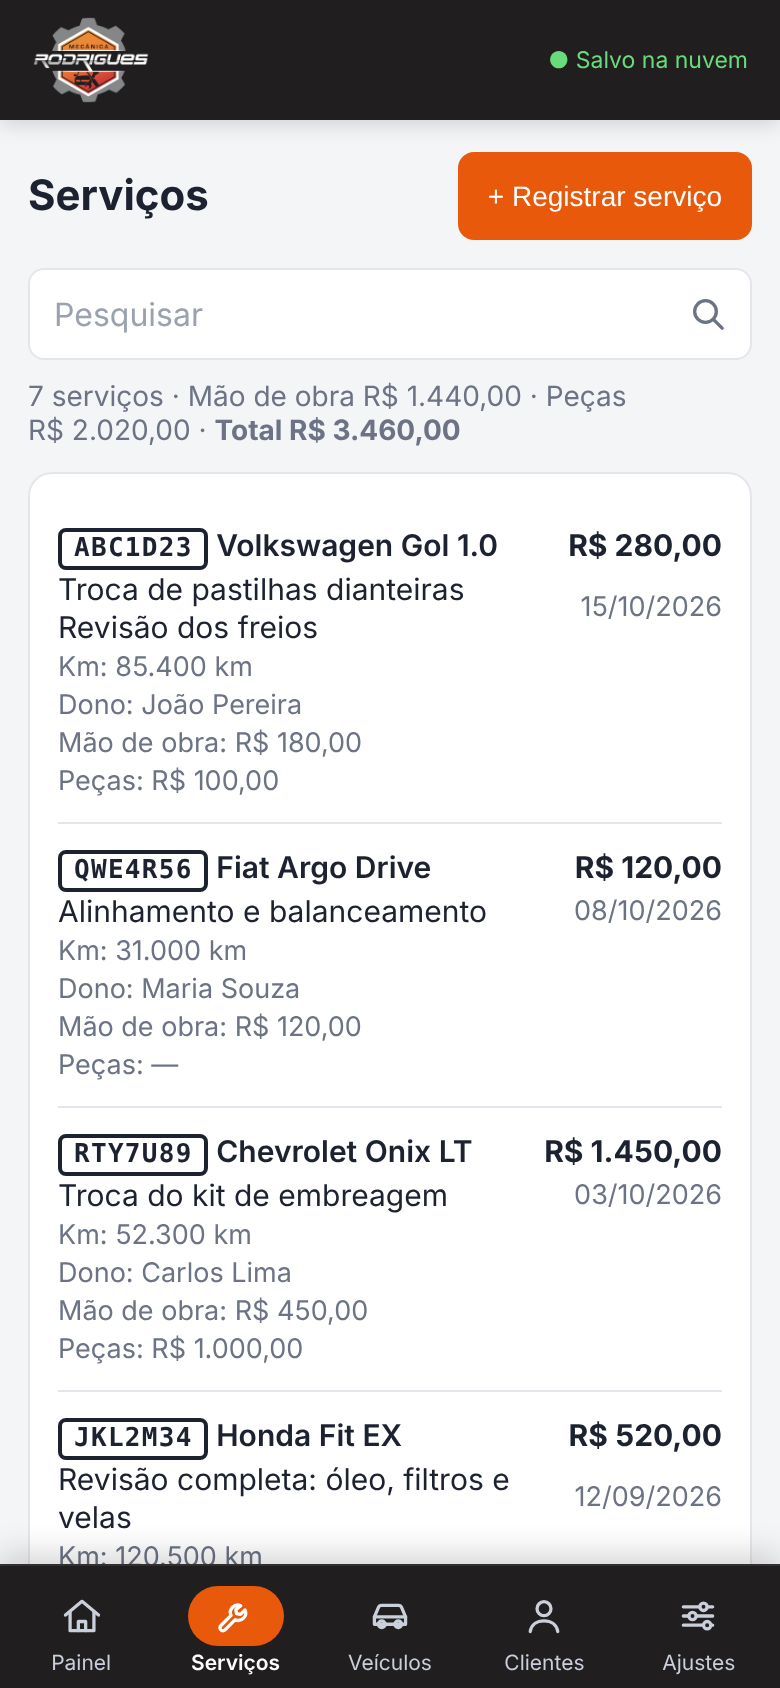
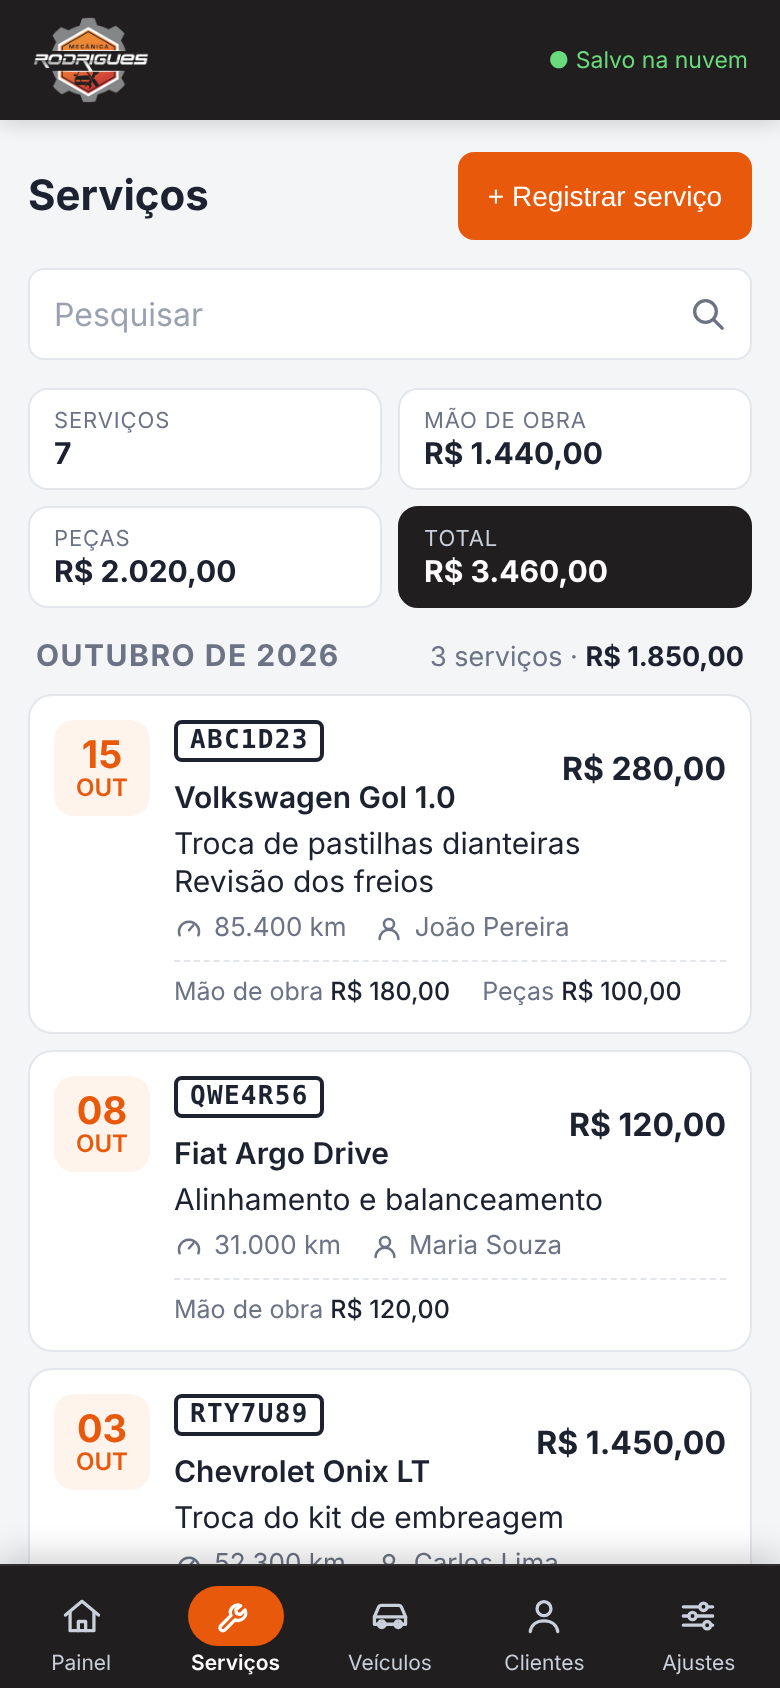
Lista de serviços em cartões agrupados por mês (1.12.0)
Quadros de resumo no topo; cada cartão com data em destaque, placa e
veículo, descrição, km e dono, total e divisão mão de obra/peças.
A ficha do cliente usa a mesma lista.

Claude-Session: https://claude.ai/code/session_01Nm6nWQGTdthzbNY6jBommo

diff --git a/app.js b/app.js
@@ -19,7 +19,7 @@ const DB_KEY = "oficina_db_v1";
 //   (uma versão antiga estragaria ou apagaria dados novos), iguale-a ao
 //   VERSION_CODE; as versões mais antigas ficam impedidas de gravar até atualizar.
 const VERSION_MAJOR = 1;
-const VERSION_CODE = 11;
+const VERSION_CODE = 12;
 const VERSION_PATCH = 0;
 const VERSION_NAME = `${VERSION_MAJOR}.${VERSION_CODE}.${VERSION_PATCH}`;
 const COMPAT_MINIMA = 6;
@@ -679,31 +679,73 @@ function removeItem(kind, id) {
 }
 
 // ---------- telas ----------
-// Lista de serviços (no celular cada linha vira um cartão)
-function servicoTabela(list, { veiculo = true, dono = true, vazio = "Nenhum serviço registrado" } = {}) {
-  const head = `<tr><th>Data</th>${veiculo ? "<th>Veículo</th>" : ""}<th>Serviço</th><th>Km</th>${
-    dono ? "<th>Dono na época</th>" : ""
-  }<th class="num">Mão de obra</th><th class="num">Peças</th><th class="num">Total</th></tr>`;
-  const cols = 6 + (veiculo ? 1 : 0) + (dono ? 1 : 0);
-  const rows = list.length
-    ? ordenarServicos(list)
-        .map((s) => {
-          const v = getVeiculo(s.veiculoId),
-            c = getCliente(s.clienteId);
-          return `<tr class="click" data-servico="${esc(s.id)}">
-        <td class="c2 sub">${fmtDate(s.data)}</td>
-        ${veiculo ? `<td class="c1 strong">${plate(v?.placa)} ${esc(v ? nomeVeiculo(v) : "Veículo removido")}</td>` : ""}
-        <td class="c1 desc"><span class="clamp">${esc(s.descricao)}</span></td>
-        <td class="c1 sub nowrap" data-l="Km">${kmFmt(s.km)}</td>
-        ${dono ? `<td class="c1 sub" data-l="Dono">${esc(c?.nome || "—")}</td>` : ""}
-        <td class="num c1 sub nowrap ${temDivisao(s) ? "" : "hide-sm"}" data-l="Mão de obra">${valorOuTraco(s.maoDeObra)}</td>
-        <td class="num c1 sub nowrap ${temDivisao(s) ? "" : "hide-sm"}" data-l="Peças">${valorOuTraco(s.pecas)}</td>
-        <td class="num c2 o-1 nowrap"><b>${valorOuTraco(s.valor)}</b></td></tr>`;
-        })
-        .join("")
-    : `<tr><td colspan="${cols}" class="empty">${vazio}</td></tr>`;
-  return `<div class="table-wrap"><table class="list"><thead>${head}</thead><tbody>${rows}</tbody></table></div>`;
+// Lista de serviços: cartões agrupados por mês
+const MESES = ["Janeiro", "Fevereiro", "Março", "Abril", "Maio", "Junho", "Julho", "Agosto", "Setembro", "Outubro", "Novembro", "Dezembro"];
+const MESES_CURTOS = ["jan", "fev", "mar", "abr", "mai", "jun", "jul", "ago", "set", "out", "nov", "dez"];
+const ICO_KM = `<svg viewBox="0 0 24 24" aria-hidden="true"><path d="M4.5 17a8 8 0 1 1 15 0"/><path d="m12 13 3.5-4"/></svg>`;
+const ICO_DONO = `<svg viewBox="0 0 24 24" aria-hidden="true"><circle cx="12" cy="8" r="4"/><path d="M4.5 20a7.5 7.5 0 0 1 15 0"/></svg>`;
+
+function mesDoServico(s) {
+  const m = /^(\d{4})-(\d{2})/.exec(s.data || "");
+  return m ? { chave: m[1] + "-" + m[2], nome: `${MESES[+m[2] - 1]} de ${m[1]}` } : { chave: "", nome: "Sem data" };
 }
+
+function servicoCartao(s, { dono = true } = {}) {
+  const v = getVeiculo(s.veiculoId),
+    c = getCliente(s.clienteId);
+  const [, mes, dia] = String(s.data || "").slice(0, 10).split("-");
+  const meta = [
+    temNum(s.km) ? `<span class="sv-chip">${ICO_KM}${kmFmt(s.km)}</span>` : "",
+    dono && c ? `<span class="sv-chip">${ICO_DONO}${esc(c.nome)}</span>` : "",
+  ].join("");
+  return `<article class="sv click" data-servico="${esc(s.id)}">
+    <div class="sv-data" title="${fmtDate(s.data)}">${
+      dia ? `<b>${dia}</b><span>${MESES_CURTOS[+mes - 1] || ""}</span>` : "<span>—</span>"
+    }</div>
+    <div class="sv-corpo">
+      <div class="sv-veiculo">${v ? `${plate(v.placa)} <span>${esc(nomeVeiculo(v))}</span>` : `<span class="muted">Veículo removido</span>`}</div>
+      <div class="sv-desc clamp">${esc(s.descricao)}</div>
+      ${meta ? `<div class="sv-meta">${meta}</div>` : ""}
+    </div>
+    <div class="sv-valores">
+      <b class="sv-total">${valorOuTraco(s.valor)}</b>
+      ${
+        temDivisao(s)
+          ? `<div class="sv-partes">${temNum(s.maoDeObra) ? `<span>Mão de obra <b>${brl(s.maoDeObra)}</b></span>` : ""}${
+              temNum(s.pecas) ? `<span>Peças <b>${brl(s.pecas)}</b></span>` : ""
+            }</div>`
+          : ""
+      }
+    </div>
+  </article>`;
+}
+
+function servicoLista(list, { dono = true, vazio = "Nenhum serviço registrado" } = {}) {
+  if (!list.length) return `<div class="card"><p class="empty">${vazio}</p></div>`;
+  const grupos = [];
+  for (const s of ordenarServicos(list)) {
+    const m = mesDoServico(s);
+    if (!grupos.length || grupos.at(-1).chave !== m.chave) grupos.push({ ...m, itens: [] });
+    grupos.at(-1).itens.push(s);
+  }
+  return `<div class="sv-lista">${grupos
+    .map(
+      (g) => `<section class="sv-mes">
+      <header class="sv-mes-head"><h2>${g.nome}</h2><span>${g.itens.length} ${g.itens.length === 1 ? "serviço" : "serviços"} · <b>${brl(
+        totalValor(g.itens),
+      )}</b></span></header>
+      ${g.itens.map((s) => servicoCartao(s, { dono })).join("")}
+    </section>`,
+    )
+    .join("")}</div>`;
+}
+
+const resumoServicos = (list) => `<div class="sv-resumo">
+  <div><span>Serviços</span><b>${list.length}</b></div>
+  <div><span>Mão de obra</span><b>${brl(somaCampo(list, "maoDeObra"))}</b></div>
+  <div><span>Peças</span><b>${brl(somaCampo(list, "pecas"))}</b></div>
+  <div class="destaque"><span>Total</span><b>${brl(totalValor(list))}</b></div>
+</div>`;
 
 // Painel: últimos serviços como linha do tempo, uma informação embaixo da outra
 function ultimosServicos(list) {
@@ -759,10 +801,8 @@ const views = {
     });
     return `<div class="page-head"><h1>Serviços</h1>${btnServico()}</div>
       ${campoBusca(q.q)}
-      <p class="muted resumo">${list.length} ${list.length === 1 ? "serviço" : "serviços"} · Mão de obra ${brl(
-        somaCampo(list, "maoDeObra"),
-      )} · Peças ${brl(somaCampo(list, "pecas"))} · <b>Total ${brl(totalValor(list))}</b></p>
-      <div class="card">${servicoTabela(list, { vazio: busca ? "Nenhum serviço encontrado" : "Nenhum serviço registrado" })}</div>`;
+      ${resumoServicos(list)}
+      ${servicoLista(list, { vazio: busca ? "Nenhum serviço encontrado" : "Nenhum serviço registrado" })}`;
   },
 
   veiculos(_, q) {
@@ -887,8 +927,8 @@ const views = {
             : `<tr><td colspan="4" class="empty">Nenhum veículo</td></tr>`
         }
         </tbody></table></div></div>
-      <div class="card"><h2>Serviços feitos para este cliente</h2>
-        ${servicoTabela(servs, { dono: false })}</div>`;
+      <h2 class="sv-titulo">Serviços feitos para este cliente</h2>
+      ${servicoLista(servs, { dono: false })}`;
   },
 
   config() {

diff --git a/style.css b/style.css
@@ -140,6 +140,55 @@ table.list td.desc { max-width: 420px; }
 .toast::before { content: "✓"; flex: none; display: grid; place-items: center; width: 22px; height: 22px; border-radius: 50%; background: rgba(255,255,255,.22); font-size: 13px; font-weight: 700; }
 .toast.erro { background: #c92a2a; }
 .toast.erro::before { content: "!"; }
+/* ---------- lista de serviços (cartões por mês) ---------- */
+.sv-resumo { display: grid; grid-template-columns: repeat(4, minmax(0, 1fr)); gap: 10px; margin: 0 0 18px; }
+.sv-resumo > div { background: var(--surface); border: 1px solid var(--border); border-radius: var(--radius); padding: 10px 14px; min-width: 0; }
+.sv-resumo span { display: block; font-size: 12px; color: var(--muted); text-transform: uppercase; letter-spacing: .04em; }
+.sv-resumo b { display: block; font-size: 17px; margin-top: 2px; white-space: nowrap; overflow: hidden; text-overflow: ellipsis; }
+.sv-resumo .destaque { background: var(--side); border-color: var(--side); color: #fff; }
+.sv-resumo .destaque span { color: #c9cfdb; }
+.sv-titulo { margin: 22px 0 10px; }
+.sv-lista { display: grid; gap: 22px; }
+.sv-mes { display: grid; gap: 8px; }
+.sv-mes-head { display: flex; align-items: baseline; justify-content: space-between; gap: 10px; flex-wrap: wrap; padding: 0 4px 2px; }
+.sv-mes-head h2 { margin: 0; font-size: 15px; text-transform: uppercase; letter-spacing: .05em; color: var(--muted); }
+.sv-mes-head span { font-size: 13.5px; color: var(--muted); }
+.sv-mes-head span b { color: var(--text); }
+.sv { display: grid; grid-template-columns: 54px minmax(0, 1fr) auto; gap: 14px; align-items: start; background: var(--surface);
+  border: 1px solid var(--border); border-radius: 12px; padding: 12px 14px; cursor: pointer; transition: border-color .15s, box-shadow .15s; }
+.sv:hover { border-color: #cfd4dc; box-shadow: 0 2px 10px rgba(20,24,33,.06); }
+.sv:active { background: var(--surface-2); }
+.sv-data { display: grid; justify-items: center; align-content: center; min-height: 52px; border-radius: 10px; background: #fff4ec; color: var(--primary); line-height: 1.05; }
+.sv-data b { font-size: 21px; }
+.sv-data span { font-size: 12px; font-weight: 600; text-transform: uppercase; }
+.sv-corpo { min-width: 0; }
+.sv-veiculo { display: flex; align-items: center; gap: 8px; flex-wrap: wrap; font-weight: 600; }
+.sv-veiculo > span { min-width: 0; overflow-wrap: anywhere; }
+.sv-desc { margin-top: 4px; color: var(--text); overflow-wrap: anywhere; }
+.sv-meta { display: flex; flex-wrap: wrap; gap: 6px 14px; margin-top: 6px; font-size: 13px; color: var(--muted); }
+.sv-chip { display: inline-flex; align-items: center; gap: 5px; min-width: 0; }
+.sv-chip svg { width: 15px; height: 15px; flex: none; fill: none; stroke: currentColor; stroke-width: 2; stroke-linecap: round; stroke-linejoin: round; }
+.sv-valores { text-align: right; display: grid; gap: 4px; justify-items: end; }
+.sv-total { font-size: 17px; white-space: nowrap; }
+.sv-partes { display: grid; gap: 1px; font-size: 12.5px; color: var(--muted); white-space: nowrap; }
+.sv-partes b { font-weight: 500; color: var(--text); }
+@media (max-width: 800px) {
+  .sv-resumo { grid-template-columns: repeat(2, minmax(0, 1fr)); gap: 8px; margin-bottom: 14px; }
+  .sv-resumo > div { padding: 8px 12px; }
+  .sv-resumo span { font-size: 11px; }
+  .sv-resumo b { font-size: 15px; margin-top: 0; }
+  .sv { grid-template-columns: 48px minmax(0, 1fr) auto; gap: 0 12px; padding: 12px; }
+  .sv-corpo, .sv-valores { display: contents; }
+  .sv-data { grid-column: 1; grid-row: 1 / 4; align-self: start; min-height: 48px; }
+  .sv-data b { font-size: 19px; }
+  .sv-veiculo { grid-column: 2; grid-row: 1; align-self: center; }
+  .sv-total { grid-column: 3; grid-row: 1; align-self: center; font-size: 16px; }
+  .sv-desc { grid-column: 2 / 4; grid-row: 2; }
+  .sv-meta { grid-column: 2 / 4; grid-row: 3; }
+  .sv-partes { grid-column: 2 / 4; grid-row: 4; display: flex; flex-wrap: wrap; gap: 4px 16px; margin-top: 8px; padding-top: 8px;
+    border-top: 1px dashed var(--border); white-space: normal; text-align: left; }
+}
+
 @media (max-width: 800px) { .toast { width: calc(100% - 24px); } }
 
 /* Login e sincronização */

diff --git a/README.md b/README.md
@@ -18,7 +18,7 @@ As imagens usam dados de exemplo (fictícios).
   <tr>
     <td align="center"><img src="docs/screenshots/celular-painel.png" width="200" alt="Painel com resumo do mês e últimos serviços"><br><sub><b>Painel</b><br>resumo do mês e últimos serviços</sub></td>
     <td align="center"><img src="docs/screenshots/celular-historico.png" width="200" alt="Ficha do veículo com o histórico de serviços"><br><sub><b>Histórico do veículo</b><br>data, km, mão de obra, peças, total e dono na época</sub></td>
-    <td align="center"><img src="docs/screenshots/celular-servicos.png" width="200" alt="Lista de todos os serviços com busca"><br><sub><b>Serviços</b><br>todos os serviços, com busca</sub></td>
+    <td align="center"><img src="docs/screenshots/celular-servicos.png" width="200" alt="Serviços em cartões agrupados por mês, com busca"><br><sub><b>Serviços</b><br>cartões por mês, com busca e totais</sub></td>
     <td align="center"><img src="docs/screenshots/celular-registrar.png" width="200" alt="Formulário para registrar um serviço"><br><sub><b>Registrar serviço</b><br>mão de obra + peças = total, com seções de novo cliente e novo veículo</sub></td>
   </tr>
 </table>
@@ -64,6 +64,7 @@ Regras principais:
 - **Km menor que o anterior:** se um serviço tiver km menor do que o de um serviço anterior do mesmo carro, o app pergunta antes de salvar (costuma ser erro de digitação).
 - **Dono na época:** cada serviço guarda quem era o dono quando foi registrado. Se o carro for vendido (troca de dono no cadastro do veículo), o histórico continua mostrando o dono antigo nos serviços antigos ("Dono na época: …"), e a ficha do cliente antigo continua listando os serviços feitos para ele.
 - **Valores do serviço:** cada serviço tem **mão de obra** e **peças**; o **total** é a soma dos dois, calculada na hora no formulário. Os campos aceitam `235,50`, `1.234,56`, `R$ 80` ou `80.5`; um valor inválido é recusado com aviso. Painel, lista de serviços e ficha do veículo mostram os totais de mão de obra, peças e geral.
+- **Lista de serviços:** no topo, quadros com quantidade, mão de obra, peças e total (respeitando a busca). Os serviços aparecem em **cartões agrupados por mês** (com quantidade e total do mês); cada cartão mostra a data em destaque, placa e veículo, o que foi feito, km e dono na época, o total e, quando houver, mão de obra e peças. A ficha do cliente usa a mesma lista.
 - **Mensagens:** avisos de sucesso (verde) e de erro (vermelho) aparecem no **topo da tela**, sem cobrir o menu de baixo do celular. Somem sozinhos (erro fica mais tempo) ou ao **deslizar para o lado**.
 - **Serviços registrados antes da divisão** (versionCode 5 ou anterior) só têm o total. Eles continuam somando no total geral; ao editar, o formulário mostra o total guardado e, se mão de obra e peças forem deixadas vazias, o total é mantido.
 - **Novo cliente e novo veículo no próprio serviço:** o formulário de registrar serviço tem duas seções que abrem e fecham, nesta ordem: **Novo cliente** e **Novo veículo**. Abrir "Novo veículo" dispensa escolher um veículo da lista; abrir "Novo cliente" abre também o veículo, já com o novo cliente como dono. Ao **Salvar**, o app valida tudo e só então cria o cliente, o veículo e o serviço, nessa ordem (nada fica criado pela metade). Sem clientes ou veículos cadastrados, as seções necessárias já abrem sozinhas. Ao **editar** um serviço já registrado, essas seções não aparecem.
@@ -299,7 +300,7 @@ O app segue o **padrão de versionamento do Android**, com dois números:
 
 | | Exemplo | Para que serve |
 |---|---|---|
-| **versionName** (`VERSION_NAME`) | `1.11.0` | O número que as pessoas veem (tela Ajustes e aviso de atualização), no formato **MAIOR.CÓDIGO.CORREÇÃO**. O número do meio é **sempre igual ao versionCode**; o app monta o nome a partir dele, então os dois não descasam. |
+| **versionName** (`VERSION_NAME`) | `1.12.0` | O número que as pessoas veem (tela Ajustes e aviso de atualização), no formato **MAIOR.CÓDIGO.CORREÇÃO**. O número do meio é **sempre igual ao versionCode**; o app monta o nome a partir dele, então os dois não descasam. |
 | **versionCode** (`VERSION_CODE`) | `9` | Inteiro que sobe **1 a cada publicação**. É o número que o app compara para saber se há atualização e para a trava de compatibilidade. |
 
 Os dois ficam no início do `app.js` e no `version.json`, que também repete o versionCode no campo `versao` para que versões antigas do app (que só conhecem esse campo) recebam o aviso.
@@ -330,7 +331,7 @@ sequenceDiagram
 ### Como publicar uma versão nova
 
 1. No `app.js`:
-   - **nova publicação do app** (qualquer mudança no app): `VERSION_CODE` + 1 e `VERSION_PATCH` volta a 0 (ex.: 1.10.0 → **1.11.0**);
+   - **nova publicação do app** (qualquer mudança no app): `VERSION_CODE` + 1 e `VERSION_PATCH` volta a 0 (ex.: 1.11.0 → **1.12.0**);
    - **mudança que não exige atualizar o app** (README, prints, testes): só `VERSION_PATCH` + 1 (ex.: 1.8.0 → **1.8.1**); o versionCode não muda, então ninguém recebe aviso;
    - **mudança muito grande**: `VERSION_MAJOR` + 1 (ex.: 1.12.0 → **2.13.0**; o código continua subindo).
 2. No `version.json`, coloque os mesmos valores em `versionCode`, `versionName` e `versao` (este repete o versionCode).
